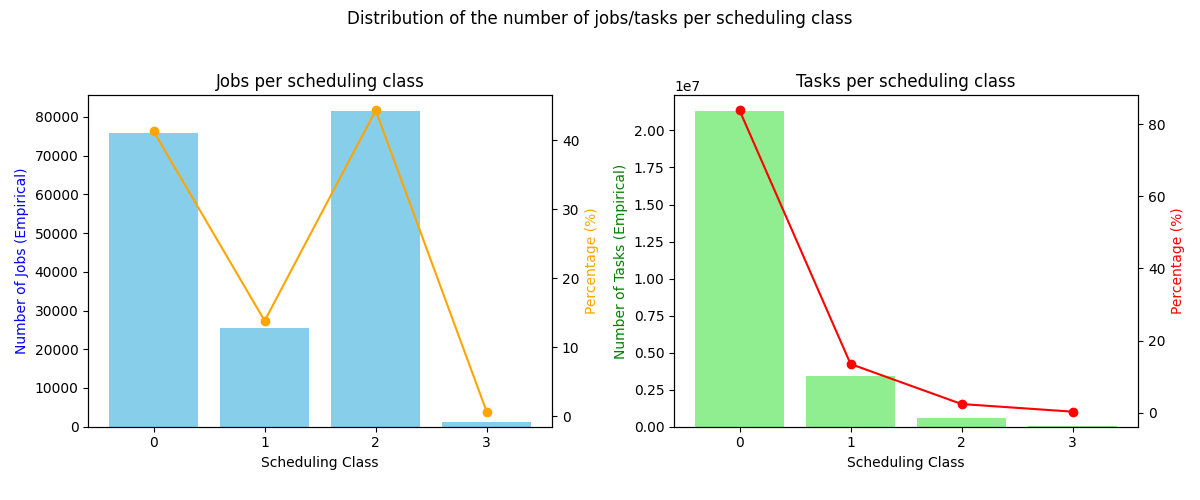
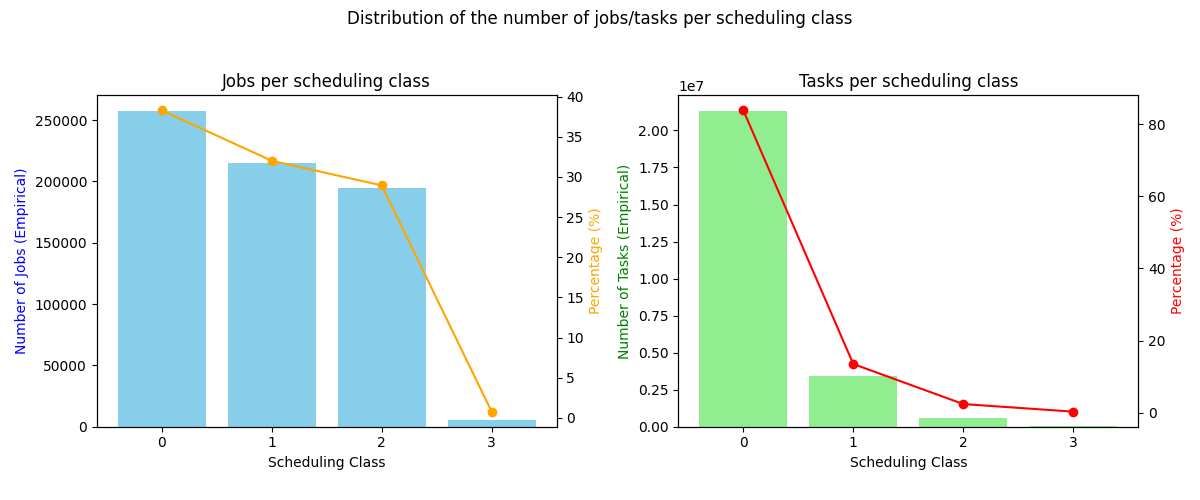
More than one scheduling task not empty for a job and a task + add diff job selection + update README.md

diff --git a/src/questions.py b/src/questions.py
@@ -1,4 +1,5 @@
 import sys
+import time
 from src.utils import *
 
 # Has a machine always the same cpucapacity?
@@ -74,6 +75,25 @@ def are_undefined_scheduling_classes(data, cols):
     else:
         print('There are no undefined scheduling classes')
 
+def count_jobs(data, cols):
+    # Find the index of the columns
+    jobID_index = find_col(cols, 'jobID')
+    t1 = time.time()
+    x = data.map(lambda x: x[jobID_index]).distinct().count()
+    print("We check that there are :", x, "jobs")
+    print("Time to count the number of jobs:", time.time() - t1)
+    return x
+
+def count_tasks(data, cols):
+    # Find the index of the columns
+    jobID_index = find_col(cols, 'jobID')
+    task_index = find_col(cols, 'task_index')
+    t1 = time.time()
+    x = data.map(lambda x: (x[jobID_index], x[task_index])).distinct().count()
+    print("We check that there are :", x, "tasks")
+    print("Time to count the number of tasks:", time.time() - t1)
+    return x
+
 # What is the distribution of the machines according to their CPU capacity?
 def question1(data, c):
     print("Something to consider: We don't know if it is possible for a machine to have more than one CPU capacity.\n"
@@ -133,6 +153,18 @@ def question1(data, c):
 
     return d
 
+def safe_int(value):
+    try:
+        return int(value)
+    except ValueError:
+        return 0  # or any default value you want to use
+
+def safe_float(value):
+    try:
+        return float(value)
+    except ValueError:
+        return 0.0  # or any default value you want to use
+
 def question2(data, c):
     # Find the index of the columns
     timestamp_id = find_col(c, 'timestamp')
@@ -147,7 +179,7 @@ def question2(data, c):
     # Mapping data to associate events to each machine
     print("Mapping data to associate events to each machine")
     events = events.map(
-        lambda x: (x[machineID_id], (int(x[timestamp_id]), int(x[eventtype_id]), 0 if x[cpucapacity_id] == '' else float(x[cpucapacity_id]))))
+        lambda x: (x[machineID_id], (safe_int(x[timestamp_id]), safe_int(x[eventtype_id]), safe_float(x[cpucapacity_id]))))
 
     # Grouping events by machine and sorting by timestamp
     print("Sorting by machine and timestamp")
@@ -182,21 +214,24 @@ def question3_job(data_job, job_event_col):
 
     if len(sys.argv) > 1 and "check" in sys.argv:
         are_undefined_scheduling_classes(data_job, job_event_col)
+        nbjob = count_jobs(data_job, job_event_col)
 
     # Find indices
     try:
         scheduling_class_index_job = find_col(job_event_col, 'scheduling_class')
-        job_name_index = find_col(job_event_col, 'job_name')
+        job_name_index = find_col(job_event_col, 'jobID')
     except Exception as e:
         print(f"Error finding column indices: {e}")
         raise
 
-    # Keep only one line per job
+    # Keep only one line per job with the scheduling class
     try:
         print("Keeping only one line per job")
         data_job = data_job.map(lambda x: (x[job_name_index], x[scheduling_class_index_job])).distinct()
         job_number = data_job.count()
-        print("Number of jobs:", job_number)
+        print("Number of jobs with scheduling class:", job_number)
+        if len(sys.argv) > 1 and "check" in sys.argv:
+            print("So there are", job_number - nbjob, "jobs which are not unique")
     except Exception as e:
         print(f"Error processing distinct job data: {e}")
         raise
@@ -236,6 +271,7 @@ def question3_task(data_task, task_event_col):
 
     if len(sys.argv) > 1 and "check" in sys.argv:
         are_undefined_scheduling_classes(data_task, task_event_col)
+        nbtask = count_tasks(data_task, task_event_col)
 
     # Find indices
     try:
@@ -251,7 +287,9 @@ def question3_task(data_task, task_event_col):
         print("Keeping only one line per task")
         data_task = data_task.map(lambda x: (x[job_name_index_task] + x[task_index], x[scheduling_class_index_task])).distinct()
         task_number = data_task.count()
-        print("Number of tasks: ", task_number)
+        print("Number of tasks with scheduling class:", task_number)
+        if len(sys.argv) > 1 and "check" in sys.argv:
+            print("So there are", task_number - nbtask, "tasks which are not unique")
     except Exception as e:
         print(f"Error processing distinct task data: {e}")
         raise

diff --git a/src/main.py b/src/main.py
@@ -1,4 +1,3 @@
-import time
 from pyspark import SparkContext, SparkConf
 import matplotlib.pyplot as plt
 from src.questions import *
@@ -14,15 +13,13 @@ job_event_col = ['timestamp', 'missinginfo', 'jobID', 'event_type', 'username', 
 task_event_col = ['timestamp', 'missinginfo', 'jobID', 'task_index', 'machineID', 'event_type', 'username', 'scheduling_class', 'priority', 'cpu', 'ram', 'disk', 'machineconstraint']
 
 def split_data(data):
-    data = data.map(lambda x: x.split(','))
-    print("Data Loaded", data.count(), "rows")
-    return data
+    return data.map(lambda x: x.split(','))
 
 def load_data(name_folder, name_file="*"):
     # concatenate the name with ./data/ and /*.csv
     data = sc.textFile(f"./data/{name_folder}/{name_file}.csv")
-    data = split_data(data)
-    return data
+    # print(data.count(), "lines loaded from", name_folder)
+    return split_data(data)
 
 #####################
 #                   #

diff --git a/README.md b/README.md
@@ -107,10 +107,10 @@ We then print the percentage of computational power lost due to maintenance.
 ### Question 3 : What is the distribution of the jobs/tasks per scheduling class?
 First, we did two different functions to compute the distribution of the jobs and tasks per scheduling class.
 The only difference between the two functions is on the way of isolate the jobs and tasks.
-For the jobs, we filter the data with the job name and for the tasks, we filter the data with the job id associated with the task_index.
+For the jobs, we filter the data with the (job name, logical job name or jobID you can find the tree result below) and for the tasks, we filter the data with the job id associated with the task_index.
 
 Why did we do that?
-- Because we have the possibility to have a job restart with another job id but the same job name.
+- Because we have the possibility to have a job restart with another job id but the same job name, and we do not understand the logical job name usage.
 
 Well, now we clarify that we'll describe the job function with annotation for the task function.
 
@@ -157,11 +157,29 @@ We need to define a specific case when a machine has an add event with no cpu ca
 ### Question 3
 The distribution of the jobs and tasks per scheduling class is shown in the following histogram:
 
+With jobs selected by the jobID :
+
+
 ![Scheduling Class Histogram](./img/question3.png)
+
+With jobs selected by the job name :
+
+![Scheduling Class Histogram](./img/question3_vName.png)
+
+With jobs selected by the logical job name :
+
+![Scheduling Class Histogram](./img/question3_vLogical.png)
+
 **Note that :**
 - The bars are the empirical distribution of the jobs and tasks per scheduling class.
 - The curve is the percentage of the jobs and tasks per scheduling class.
 - Points are linked only because it is easier to read the curve than only points. We know that scheduling class is an integer and not a continuous variable.
+- For each version we always have some jobs and tasks with more than one scheduling class (and none of them are empty).
+  - For the jobID version, we have 3 jobs with more than one scheduling class.
+  - For the job name version, we have 30 jobs with more than one scheduling class.
+  - For the logical job name version, we have 50 jobs with more than one scheduling class.
+  - For the task version, we have 3 tasks with more than one scheduling class. 
+  - *You can check that by using the `check` parameter and changing the selection in the code* 
 
 ### Question 4
 The probability of being evicted for low scheduling class tasks is 4.16% against 2.86% for other tasks.
